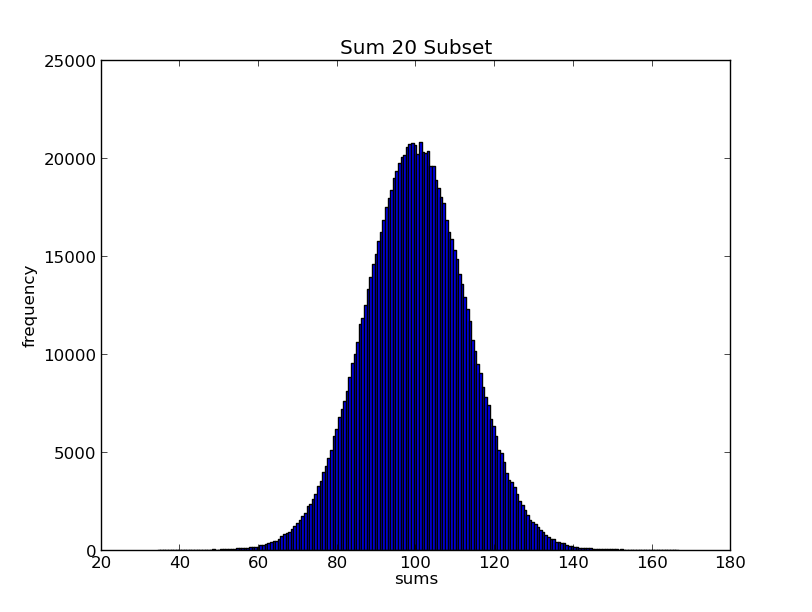
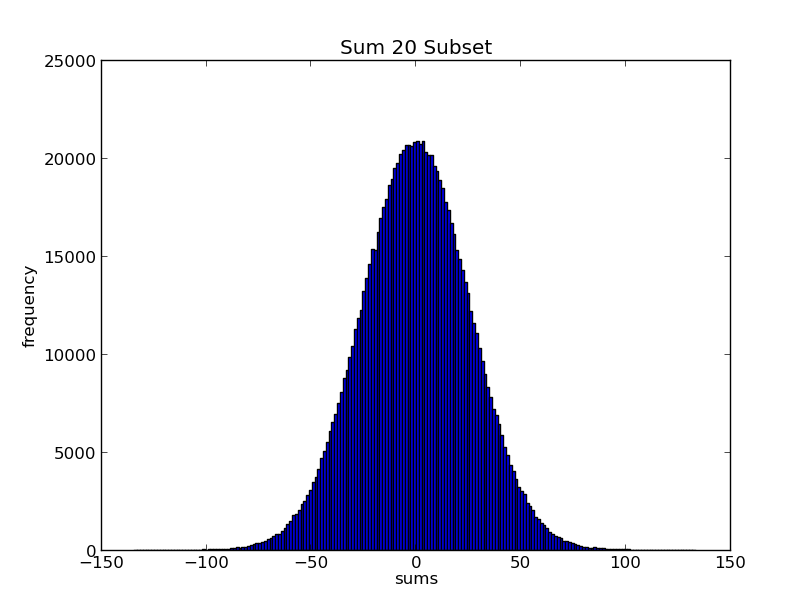
integrate update

diff --git a/integrate/example.py b/integrate/example.py
@@ -21,12 +21,12 @@ pyplot.title('Deng Fast Random Numbers')
 pyplot.ylabel('frequency')
 pyplot.xlabel('intervals')
 
-generator = integrate.deng_fast([time.time(),time.time()])
-x = [10*generator.next() for i in range(20000000)]
+generator = integrate.deng_random([time.time(),time.time()])
+x = [generator.next() for i in range(20000000)]
 print 'Deng Random Numbers:',x[0:100]
 results = pyplot.hist(x,20)
+pyplot.show()
 pyplot.close()
-#pyplot.show()
 
 results = results[0]
 n = 20000000.0

diff --git a/integrate/integrate.py b/integrate/integrate.py
@@ -24,10 +24,11 @@ def rand(seed):
         yield seed
 
 
-def deng_fast(seeds):
+def deng_random(seeds):
     """
-    Deng's fast random number generator.
+    Deng's fast random number generator. 
 
+    Inspired by professor Yuefan Deng at Stony Brook University.
     That's Deng fast!
     """
 

diff --git a/integrate/README.md b/integrate/README.md
@@ -4,7 +4,7 @@ Integration:
 Random Numbers:
 --------------
 
-Deng Fast:
+Deng Fast Random Numbers:
 
 ![rand](./rand.png)
 
